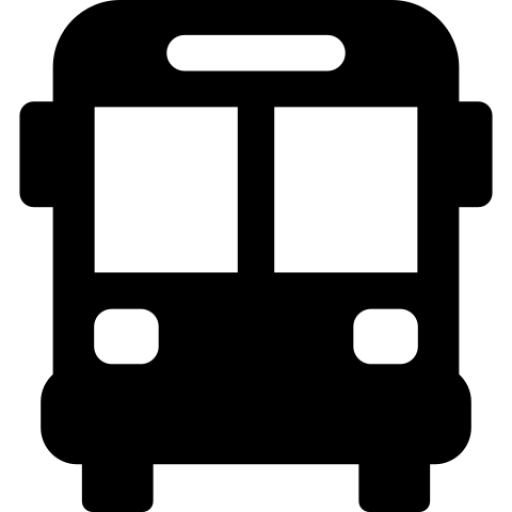
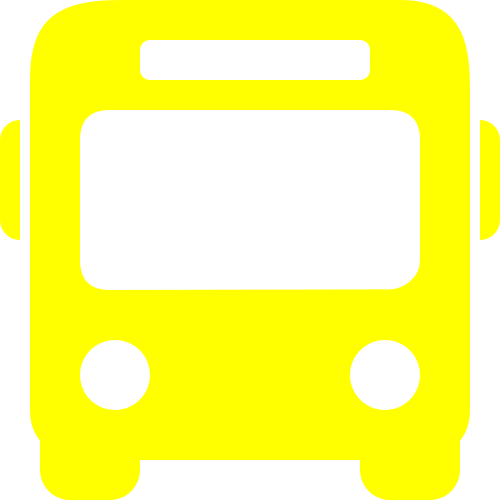
Add files via upload

diff --git a/mapbox.html b/mapbox.html
@@ -1,0 +1,381 @@
+<!DOCTYPE html>
+<html>
+<head>
+    <meta charset='utf-8' />
+    <title>Add an icon to the map</title>
+    <meta name='viewport' content='initial-scale=1,maximum-scale=1,user-scalable=no' />
+	<meta http-equiv="Content-Security-Policy" content="upgrade-insecure-requests">
+	<script src="d3.js"></script>
+    <script src='mapboxgl.js'></script>
+    <link href='mapbox-gl.css' rel='stylesheet' />
+    <style>
+        body { margin:0; padding:0; }
+        #map { position:absolute; top:0; bottom:0; width:81%; }
+		#description{
+			position:absolute; 
+			right:0px;
+			height:1000px;
+			width:250px;
+			padding: 0;
+			
+		}
+    </style>
+</head>
+<body>
+
+<div id='map'></div>
+<div id="description">
+	<p>To make the app work, please install this google extenstion: </p>
+	<a href="https://chrome.google.com/webstore/detail/allow-control-allow-origi/nlfbmbojpeacfghkpbjhddihlkkiljbi">Allow-Control-Allow-Origin: *</a>
+	<p>This extenstion is required for the app to get the real time data successfully</p>
+	<p>make sure "Enable cross-orgin resource sharing" is enabled in the extension and refresh the page</p>
+	<img src="setting.png" width='200px'>
+	<p>Other time, please disable the extension or it will make you have some problem in browsing other websites.</p>
+	</br>
+	<p>This is the bus line(grey) of M31 in Manhattan. The blue point represent the bus stops.</p>
+	<p>The yellow bus icon will show up and update every five seconds</p>
+	<p>You can see the locations of buses change.</p>
+	
+	
+</div>
+
+<script>
+var description 
+
+mapboxgl.accessToken = 'pk.eyJ1IjoieWFuZzQ5MDUyMCIsImEiOiJjanlxNmNhM2MwMTBhM2NsZTRyamQ5dHlqIn0.rpRj7lBf6j-pmy3yqK7sbA';
+
+var map = new mapboxgl.Map({
+    container: 'map',
+    style: 'mapbox://styles/yang490520/cjyqdw7y90e9u1cjtxaue8syl',
+	center: [-73.967, 40.77], // starting position [lng, lat]
+	zoom: 14 // starting zoom
+});
+
+var bus;
+var data_bus = {
+            "id": "points",
+            "type": "symbol",
+            "source": {
+                "type": "geojson",
+                "data": {
+                    "type": "FeatureCollection",
+                    "features": []
+                }
+            },
+            "layout": {
+                "icon-image": "cat",
+                "icon-size": 0.03
+            }
+        }
+function findlat(d){
+	return d.MonitoredVehicleJourney.VehicleLocation.Latitude
+}
+function findlon(d){
+	return d.MonitoredVehicleJourney.VehicleLocation.Longitude
+}
+
+function animateMarker() {
+// Update the data to a new position based on the animation timestamp. The
+// divisor in the expression `timestamp / 1000` controls the animation speed.
+map.getSource('points').setData(data_bus.source.data);
+ 
+// Request the next frame of the animation.
+requestAnimationFrame(animateMarker);
+}
+map.on('load', function() {
+	
+	
+	
+	
+	//add bus stop location
+	map.addSource("national-park", {
+	"type": "geojson",
+	"data": {
+	"type": "FeatureCollection",
+	"features": [ {
+	"type": "Feature",
+	"geometry": {
+	"type": "Point",
+	"coordinates": [-73.982719, 40.766592]
+	}
+	}, {
+	"type": "Feature",
+	"geometry": {
+	"type": "Point",
+	"coordinates": [-73.980322, 40.765563]
+	}
+	}, 
+	{
+	"type": "Feature",
+	"geometry": {
+	"type": "Point",
+	"coordinates": [-73.977639, 40.764577]
+	}
+	},
+	{
+	"type": "Feature",
+	"geometry": {
+	"type": "Point",
+	"coordinates": [-73.974302, 40.763031]
+	}
+	},
+	{
+	"type": "Feature",
+	"geometry": {
+	"type": "Point",
+	"coordinates": [-73.972425, 40.762383]
+	}
+	},
+	{
+	"type": "Feature",
+	"geometry": {
+	"type": "Point",
+	"coordinates": [-73.968725, 40.760727]
+	}
+	},
+	{
+	"type": "Feature",
+	"geometry": {
+	"type": "Point",
+	"coordinates": [-73.966804, 40.75991]
+	}
+	},
+	{
+	"type": "Feature",
+	"geometry": {
+	"type": "Point",
+	"coordinates": [-73.96486, 40.759086]
+	}
+	},
+	{
+	"type": "Feature",
+	"geometry": {
+	"type": "Point",
+	"coordinates": [-73.962478, 40.758095]
+	}
+	},
+	{
+	"type": "Feature",
+	"geometry": {
+	"type": "Point",
+	"coordinates": [-73.961488, 40.757658]
+	}
+	},
+	{
+	"type": "Feature",
+	"geometry": {
+	"type": "Point",
+	"coordinates": [-73.959957, 40.75826]
+	}
+	},
+	{
+	"type": "Feature",
+	"geometry": {
+	"type": "Point",
+	"coordinates": [-73.958987, 40.759558]
+	}
+	},
+	{
+	"type": "Feature",
+	"geometry": {
+	"type": "Point",
+	"coordinates": [-73.95757, 40.761483]
+	}
+	},
+	{
+	"type": "Feature",
+	"geometry": {
+	"type": "Point",
+	"coordinates": [-73.95624, 40.763333]
+	}
+	},
+	{
+	"type": "Feature",
+	"geometry": {
+	"type": "Point",
+	"coordinates": [-73.9551713, 40.765019]
+	}
+	},
+	{
+	"type": "Feature",
+	"geometry": {
+	"type": "Point",
+	"coordinates": [-73.95344, 40.767166]
+	}
+	},
+	{
+	"type": "Feature",
+	"geometry": {
+	"type": "Point",
+	"coordinates": [-73.952959, 40.768033]
+	}
+	},
+	{
+	"type": "Feature",
+	"geometry": {
+	"type": "Point",
+	"coordinates": [-73.951606, 40.769679]
+	}
+	},
+	{
+	"type": "Feature",
+	"geometry": {
+	"type": "Point",
+	"coordinates": [-73.950753, 40.771081]
+	}
+	},
+	{
+	"type": "Feature",
+	"geometry": {
+	"type": "Point",
+	"coordinates": [-73.949262, 40.773109]
+	}
+	},
+	{
+	"type": "Feature",
+	"geometry": {
+	"type": "Point",
+	"coordinates": [-73.947842, 40.774863]
+	}
+	},
+	{
+	"type": "Feature",
+	"geometry": {
+	"type": "Point",
+	"coordinates": [-73.947318, 40.775777]
+	}
+	},
+	{
+	"type": "Feature",
+	"geometry": {
+	"type": "Point",
+	"coordinates": [-73.94591, 40.777473]
+	}
+	},
+	{
+	"type": "Feature",
+	"geometry": {
+	"type": "Point",
+	"coordinates": [-73.944942, 40.779214]
+	}
+	},
+	{
+	"type": "Feature",
+	"geometry": {
+	"type": "Point",
+	"coordinates": [-73.946624,40.779901]
+	}
+	},
+	]
+	}
+	});
+	
+	
+	//add line
+	map.addLayer({
+			"id": "route",
+			"type": "line",
+			"source": {
+			"type": "geojson",
+			"data": {
+			"type": "Feature",
+			"properties": {},
+			"geometry": {
+			"type": "LineString",
+			"coordinates": [
+			[-73.982719, 40.766592],
+			[-73.980322, 40.765563],
+			[-73.977639, 40.764577],
+			[-73.974302, 40.763031],
+			[-73.972425, 40.762383],
+			[-73.968725, 40.760727],
+			[-73.966804, 40.75991],
+			[-73.96486, 40.759086],
+			[-73.962478, 40.758095],
+			[-73.961488, 40.757658],
+			[-73.959957, 40.75826],
+			[-73.958987, 40.759558],
+			[-73.95757, 40.761483],
+			[-73.95624, 40.763333],
+			[-73.955171, 40.765019],
+			[-73.95344, 40.767166],
+			[-73.952959, 40.768033],
+			[-73.951606, 40.769679],
+			[-73.950753, 40.771081],
+			[-73.949262, 40.773109],
+			[-73.947842, 40.774863],
+			[-73.947318, 40.775777],
+			[-73.94591, 40.777473],
+			[-73.944942, 40.779214],
+			[-73.946624, 40.779901]
+			]
+			}
+			}
+			},
+			"layout": {
+			"line-join": "round",
+			"line-cap": "round"
+			},
+			"paint": {
+			"line-color": "#888",
+			"line-width": 5
+			}
+			});
+	
+	
+	
+	//add bus icon
+    map.loadImage('bus.png', function(error, image) {
+        if (error) throw error;
+        map.addImage('cat', image);
+        map.addLayer(data_bus)
+		map.addLayer({
+		"id": "park-volcanoes",
+		"type": "circle",
+		"source": "national-park",
+		"paint": {
+		"circle-radius": 3,
+		"circle-color": "aqua"
+		},
+		"filter": ["==", "$type", "Point"],
+		});
+		});
+    });
+
+
+	
+	setInterval(function() {
+	  // map.removeLayer('points');
+	  // map.removeSource('points')
+	  data_bus.source.data.features=[];
+      d3.json('http://bustime.mta.info/api/siri/vehicle-monitoring.json?key=d60b3f05-4a87-4f51-8f3e-0418de7700ba&version=2').then(function(d){
+      	bus = d;
+      	console.log(bus)
+      	vehicle_array = bus.Siri.ServiceDelivery.VehicleMonitoringDelivery[0].VehicleActivity
+      	var M31 = vehicle_array.filter(function(d){
+      		return d.MonitoredVehicleJourney.LineRef =='MTA NYCT_M31'	
+      	})
+      	M31.forEach(function(d){
+			let lat = findlat(d)
+			let lon = findlon(d)
+			data_bus.source.data.features.push({"type": "Feature","geometry":{"type": "Point","coordinates": [lon, lat]}})
+		})
+		
+		animateMarker()
+      })	
+}, 5000);
+
+	
+
+
+
+
+ 
+
+ 
+
+
+</script>
+
+</body>
+</html>
